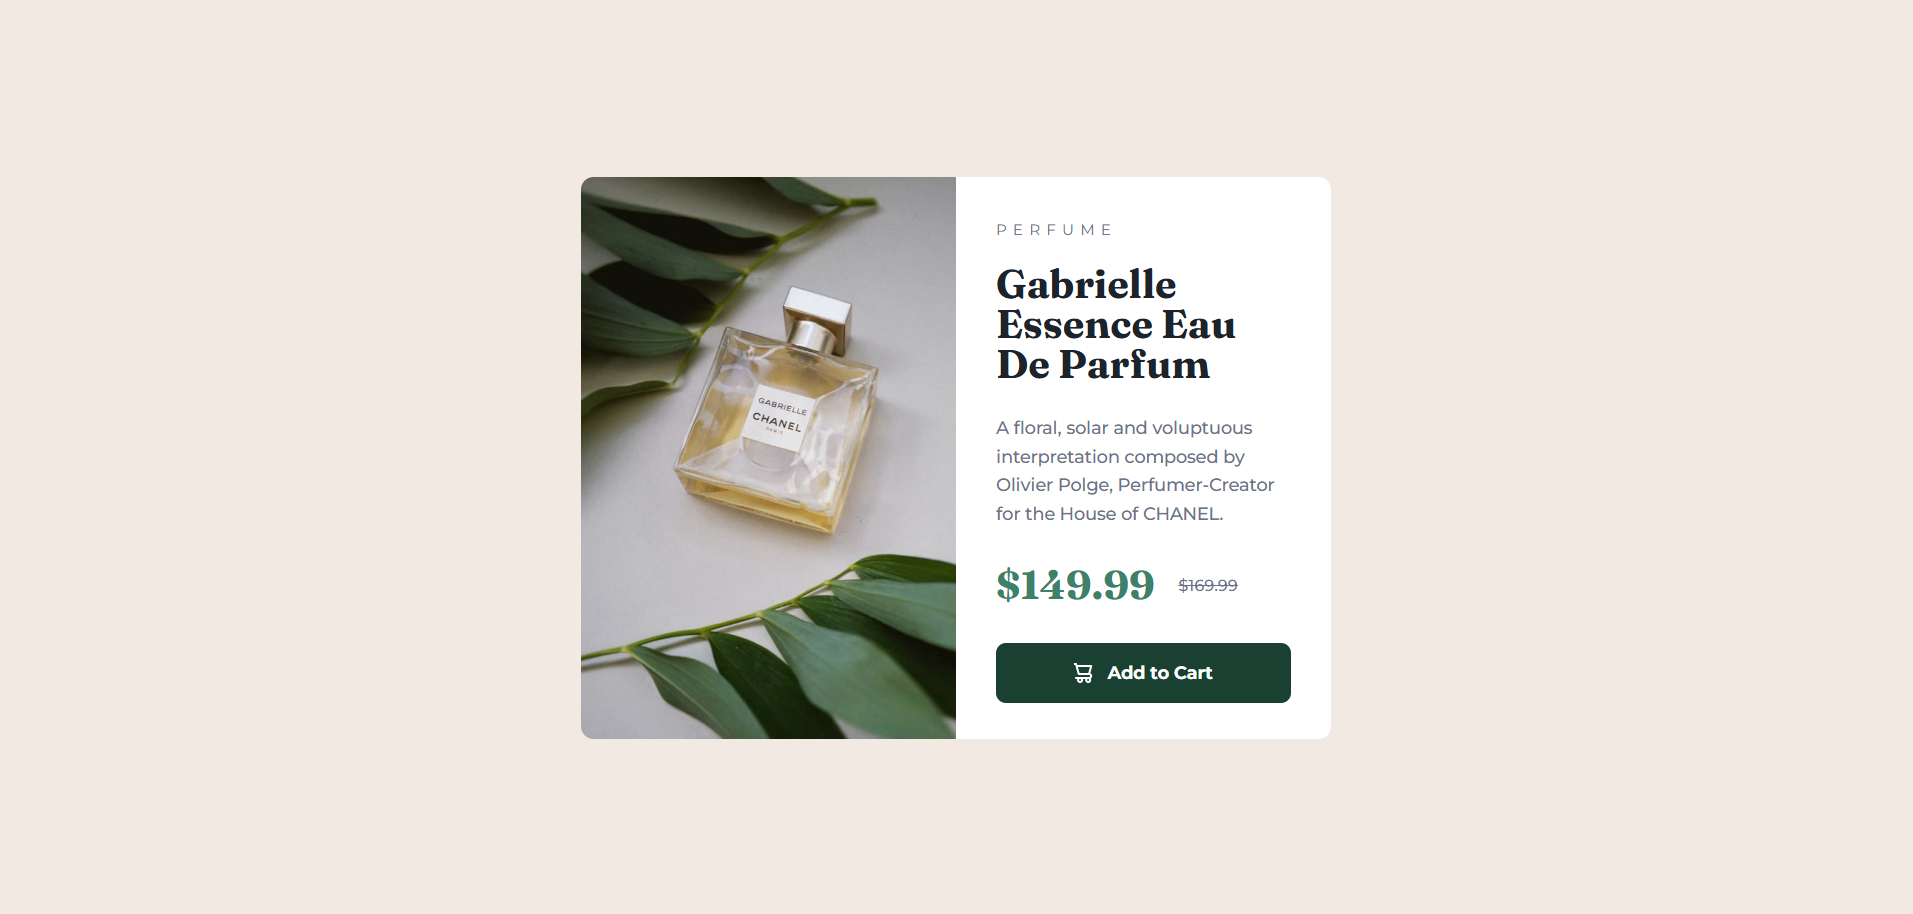
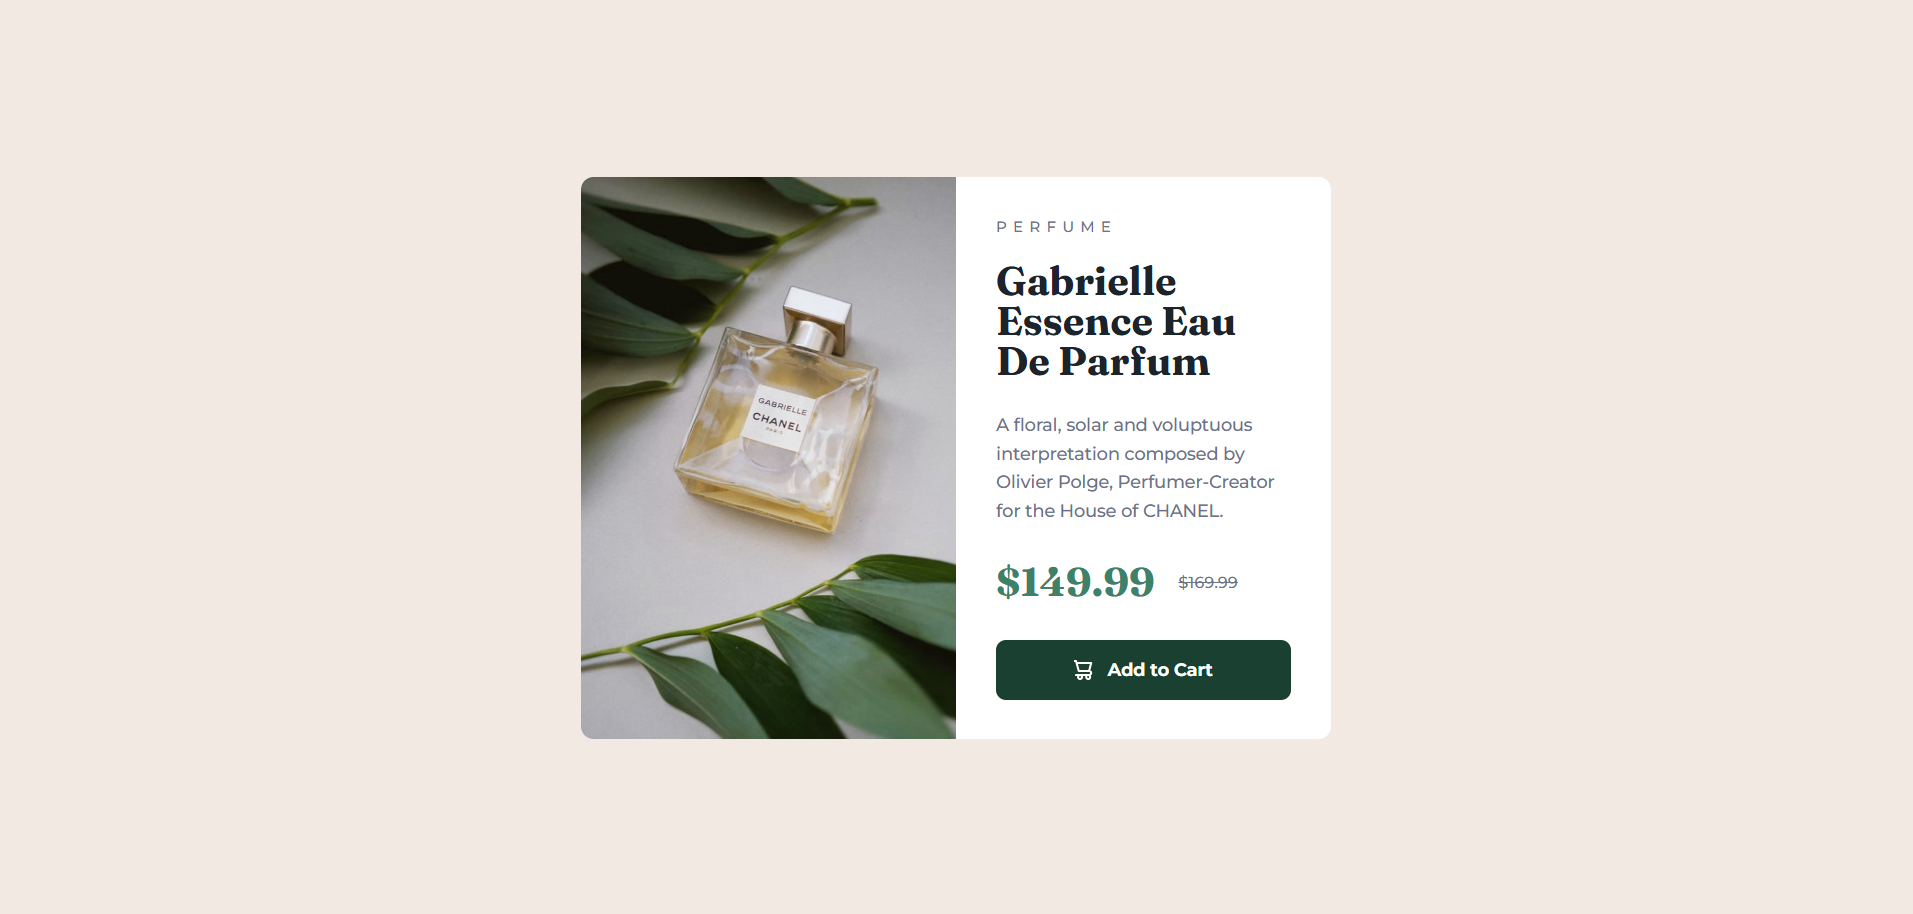
changing display property from overline to block and adding font weight medium to it.

Changed region(s): [[0.5243, 0.6127, 0.6477, 0.7965], [0.5243, 0.2451, 0.6477, 0.4289], [0.5243, 0.4595, 0.6785, 0.5821]]

diff --git a/product-preview-card-component/styles/style.css b/product-preview-card-component/styles/style.css
@@ -54,12 +54,13 @@ body {
 
 .overline {
   color: var(--aurometal-saurus);
-  display: inline-block;
+  display: block;
   font-family: 'Montserrat';
   font-size: 0.75rem;
   letter-spacing: 5px;
   text-transform: uppercase;
   margin-bottom: 20px;
+  font-weight: var(--medium);
 }
 
 .product-name,

diff --git a/product-preview-card-component/README.md b/product-preview-card-component/README.md
@@ -22,7 +22,7 @@ This is a solution to the [Product preview card component challenge on Frontend 
 **Result for hover in Desktop Design**
 ![](./design/product-preview-card-component-desktop-hover-solution.PNG)
 
-**Result for mobile Design**
+**Result for mobile Design** </br>
 ![](./design/product-preview-card-component-mobile-solution.PNG)
 
 ### Links
